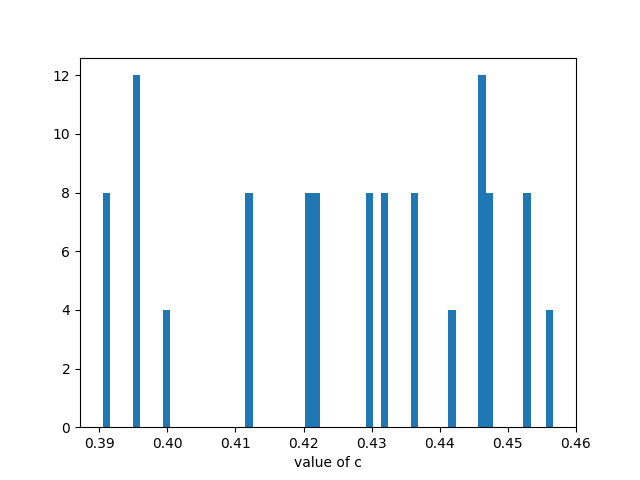
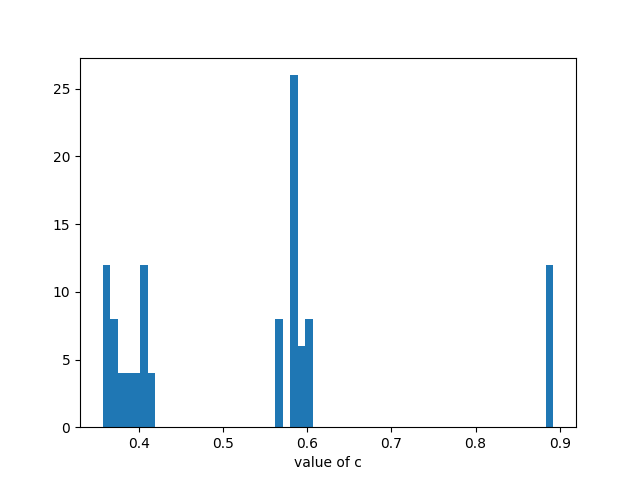
update

diff --git a/Ex3_square_harmonic_v2/estimate_all_path.py b/Ex3_square_harmonic_v2/estimate_all_path.py
@@ -25,7 +25,7 @@ def all_path(n):
    # input: iterations for fractal
    # Output: sequence of points
    path_to_boundary=[]
-   h=[2*(1/3.)**(i+1) for i in range(1,n+1)]
+   h=[2*(1/3.)**(i+1) for i in range(0,n+1)]
    list_of_all_possible_number=generate_lists_of_length_n(n-1)
    for nn in range(4):
       pp0=[]
@@ -66,8 +66,6 @@ def all_path(n):
 def estimate_all(n,uh):
    # distance to boundary
    x_list=[(1/3.)**i for i in range(1,n+1)]
-   # step size 
-   h=[2*(1/3.)**(i+1) for i in range(1,n+1)]
    alpha0=[]
    c0=[]
    path_to_boundary=all_path(n)
